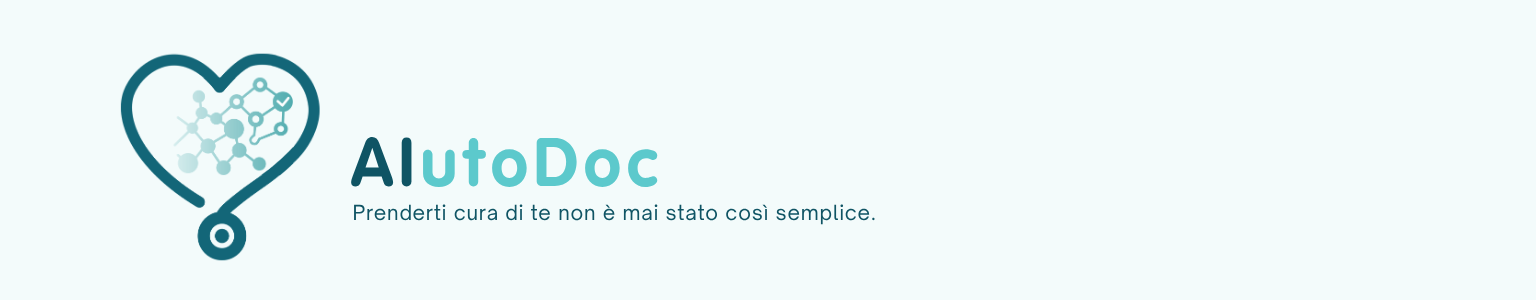
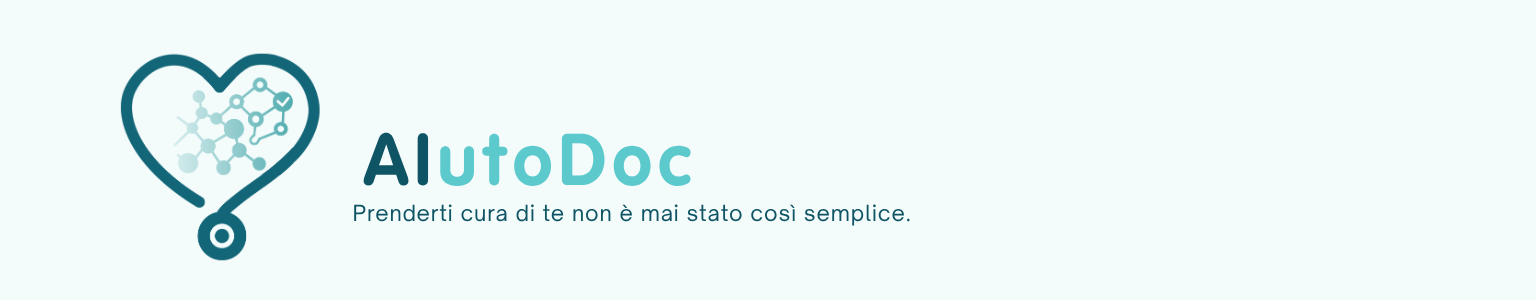
Update responsive AiutoDoc header

Changed region(s): [[0.2188, 0.45, 0.4688, 0.63], [0.2188, 0.69, 0.5938, 0.75]]

diff --git a/src/style.css b/src/style.css
@@ -2676,6 +2676,202 @@ body {
   }
 }
 
+/* Header/footer responsive refinement for the official horizontal header image. */
+.banner-wrapper {
+  background: var(--bg-color) !important;
+  overflow: hidden !important;
+}
+
+.banner-img {
+  display: block;
+  height: auto !important;
+  max-height: none !important;
+  object-fit: contain !important;
+  object-position: left center !important;
+}
+
+.legal-footer {
+  height: auto !important;
+  min-height: unset !important;
+  max-height: none !important;
+  overflow: visible !important;
+  white-space: normal !important;
+}
+
+@media (min-width: 951px), (max-width: 950px) and (hover: hover) and (pointer: fine) {
+  .banner-wrapper {
+    max-width: 1080px !important;
+    margin: 0 auto !important;
+    overflow: visible !important;
+  }
+
+  .banner-img {
+    width: 100% !important;
+    max-width: 100% !important;
+    margin: 0 !important;
+  }
+}
+
+@media (max-width: 950px) and (hover: none), (max-width: 950px) and (pointer: coarse) {
+  html,
+  body {
+    height: auto !important;
+    min-height: 100% !important;
+    overflow-x: hidden !important;
+    overflow-y: auto !important;
+  }
+
+  #app {
+    height: auto !important;
+    min-height: var(--app-height) !important;
+    overflow: visible !important;
+  }
+
+  .banner-wrapper {
+    overflow: hidden !important;
+  }
+
+  .banner-img {
+    width: 100% !important;
+    max-width: 100% !important;
+    margin: 0 0 0 0 !important;
+    object-fit: contain !important;
+    object-position: left center !important;
+  }
+
+  .chat-footer-links {
+    overflow: visible !important;
+    white-space: normal !important;
+  }
+
+  .content-container,
+  #chat-section,
+  .messages-area {
+    height: auto !important;
+    min-height: 0 !important;
+    overflow: visible !important;
+  }
+
+  .content-container {
+    flex: 0 0 auto !important;
+  }
+
+  .messages-area {
+    flex: 0 0 auto !important;
+    padding-bottom: 24px !important;
+  }
+
+  .legal-footer {
+    flex: 0 0 auto !important;
+    padding: 16px 16px calc(84px + var(--safe-bottom)) !important;
+    font-size: 0.78rem !important;
+    line-height: 1.45 !important;
+  }
+
+  .footer-col p,
+  .footer-links a,
+  .footer-link-button {
+    overflow-wrap: anywhere;
+  }
+}
+
+@media (max-width: 380px) and (hover: none), (max-width: 380px) and (pointer: coarse) {
+  .banner-img {
+    width: 600px !important;
+  }
+}
+
+@media screen and (max-width: 950px) {
+  html,
+  body {
+    height: auto !important;
+    min-height: 100% !important;
+    overflow-x: hidden !important;
+    overflow-y: auto !important;
+  }
+
+  #app {
+    height: auto !important;
+    min-height: var(--app-height) !important;
+    overflow: visible !important;
+  }
+
+  .banner-wrapper {
+    width: 100% !important;
+    max-width: 100% !important;
+    margin: 0 !important;
+    overflow: hidden !important;
+  }
+
+  .banner-img {
+    width: 100% !important;
+    max-width: 100% !important;
+    height: auto !important;
+    margin: 0 !important;
+    object-fit: contain !important;
+    object-position: left center !important;
+  }
+
+  .main-nav {
+    display: none !important;
+    flex-direction: column !important;
+    width: 100vw !important;
+    min-height: var(--app-height) !important;
+    padding: calc(68px + var(--safe-top)) calc(20px + var(--safe-right)) calc(24px + var(--safe-bottom)) calc(20px + var(--safe-left)) !important;
+    gap: 12px !important;
+    position: fixed !important;
+    inset: 0 !important;
+    z-index: 2000 !important;
+    background: white !important;
+    border: none !important;
+    overflow-y: auto !important;
+  }
+
+  .main-nav.open {
+    display: flex !important;
+  }
+
+  #menu-toggle {
+    display: block !important;
+    right: calc(10px + var(--safe-right)) !important;
+    bottom: 10px !important;
+  }
+
+  .content-container,
+  #chat-section,
+  .messages-area {
+    height: auto !important;
+    min-height: 0 !important;
+    overflow: visible !important;
+  }
+
+  .content-container {
+    flex: 0 0 auto !important;
+  }
+
+  #chat-section {
+    display: flex !important;
+    flex-direction: column !important;
+  }
+
+  .messages-area {
+    flex: 0 0 auto !important;
+    padding-bottom: 24px !important;
+  }
+
+  .legal-footer {
+    flex: 0 0 auto !important;
+    max-height: none !important;
+    overflow: visible !important;
+  }
+}
+
+@media screen and (max-width: 380px) {
+  .banner-img {
+    width: 100% !important;
+  }
+}
+
 /* --- PDF PRINT OPTIMIZATION --- */
 #printable-area {
   display: block !important;

diff --git a/index.html b/index.html
@@ -28,7 +28,7 @@
   <meta name="twitter:image" content="https://aiutodoc.it/assets/header-sito.png" />
   <link rel="manifest" href="./manifest.webmanifest">
   <link rel="apple-touch-icon" href="./assets/favicon-192.png" />
-  <link rel="stylesheet" href="./src/style.css?v=4.0.3">
+  <link rel="stylesheet" href="./src/style.css?v=4.0.5">
   <link rel="privacy-policy" href="https://aiutodoc.it/privacy-policy/">
   <link rel="terms-of-service" href="https://aiutodoc.it/termini-condizioni/">
   <link rel="help" href="https://aiutodoc.it/cookie-policy/" title="Cookie Policy">
@@ -154,7 +154,6 @@
   <div id="app">
     <header class="chat-header">
       <div class="banner-wrapper">
-        <!-- BANNER FULL WIDTH -->
         <img src="./assets/header-sito.png" alt="AIutoDoc.it - Prenderti cura di te non è mai stato così semplice" class="banner-img">
 
         <!-- Hamburger Toggle for Mobile -->

diff --git a/service-worker.js b/service-worker.js
@@ -1,4 +1,4 @@
-const CACHE_NAME = 'aiutodoc-static-v20260531-header-left-2';
+const CACHE_NAME = 'aiutodoc-static-v20260531-header-image-1';
 const ASSETS = [
   './',
   './index.html',
